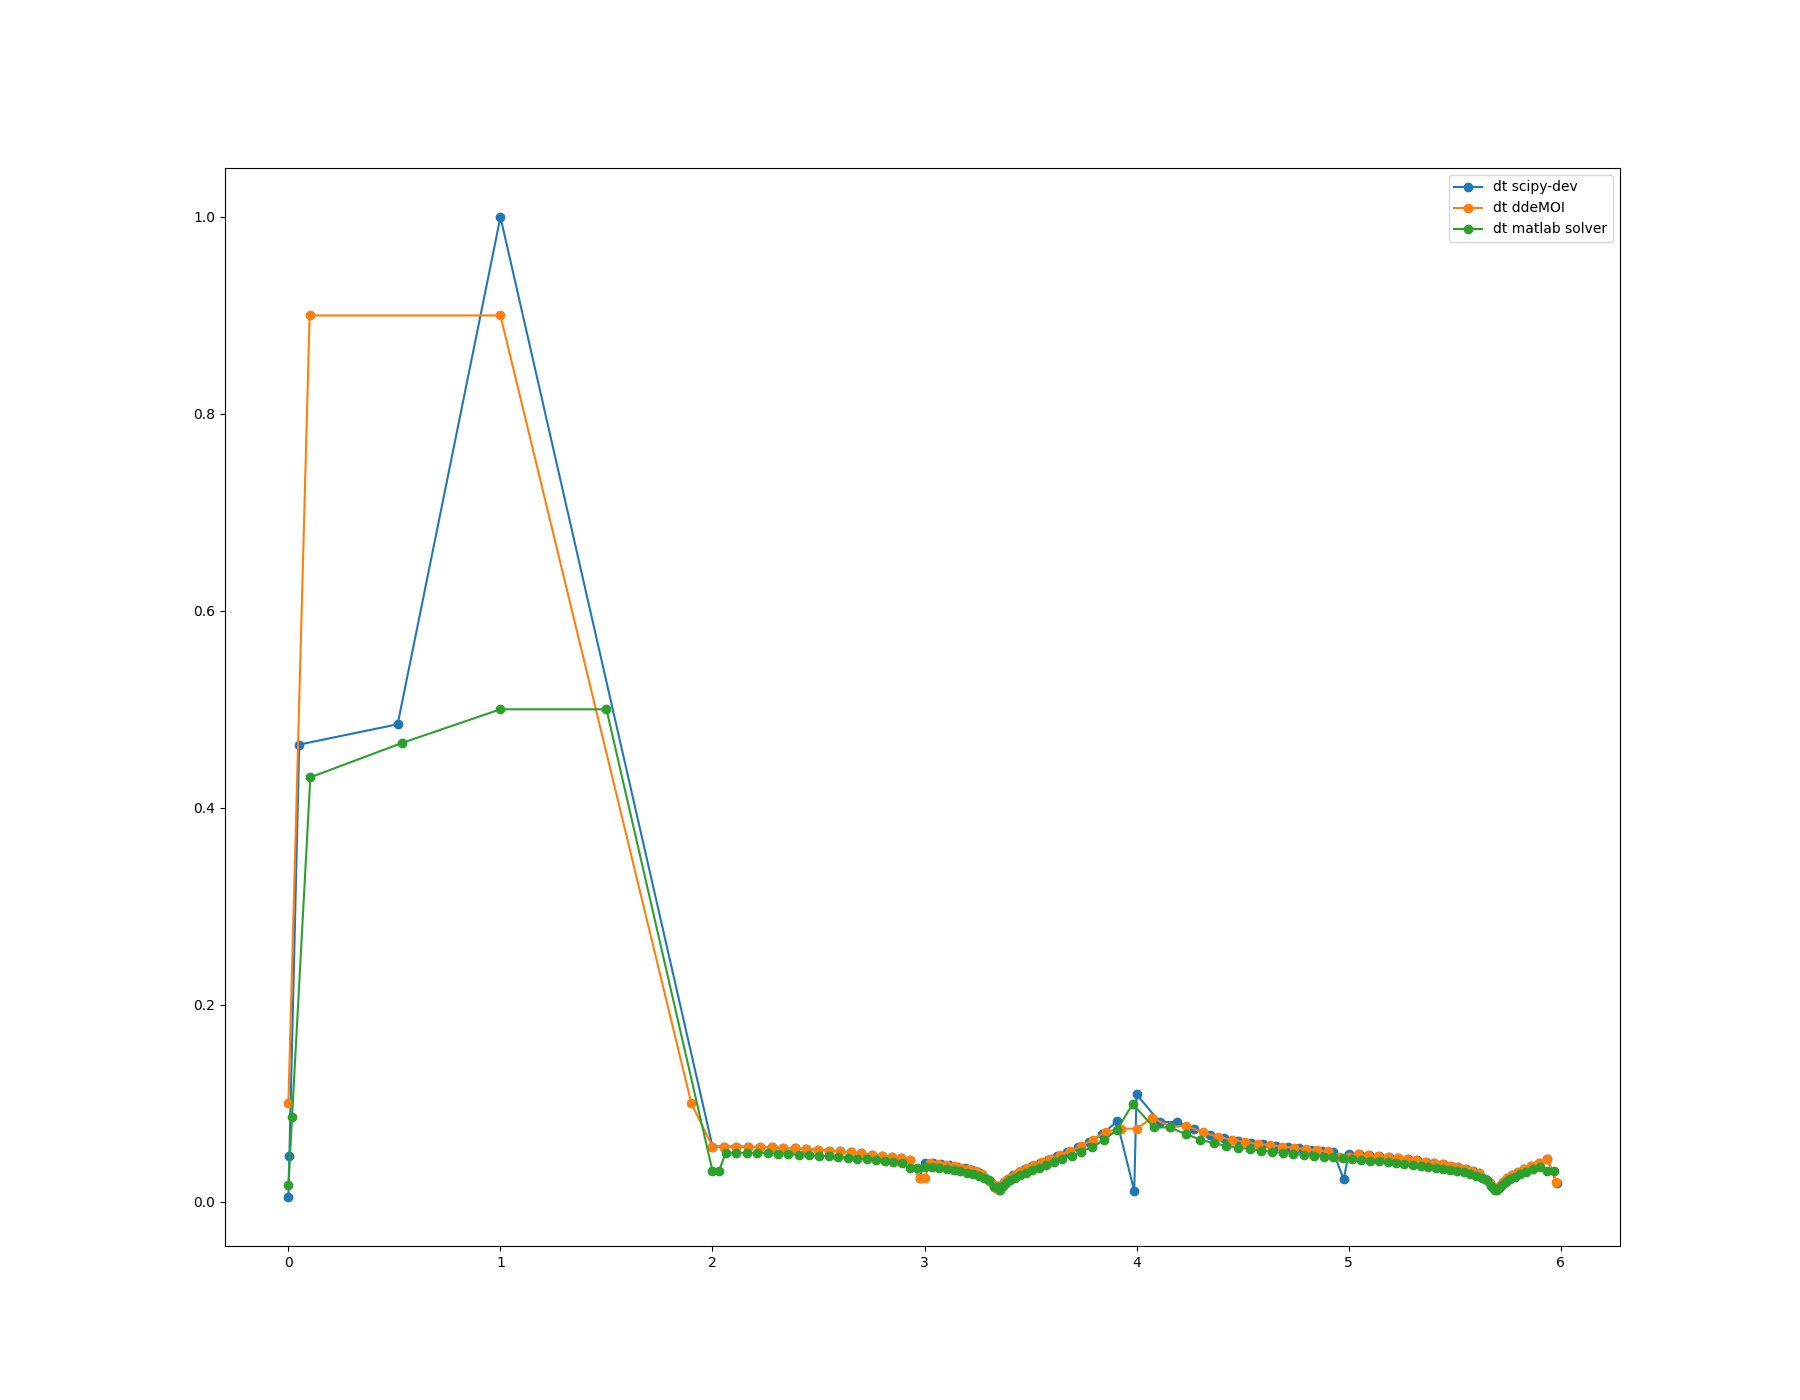
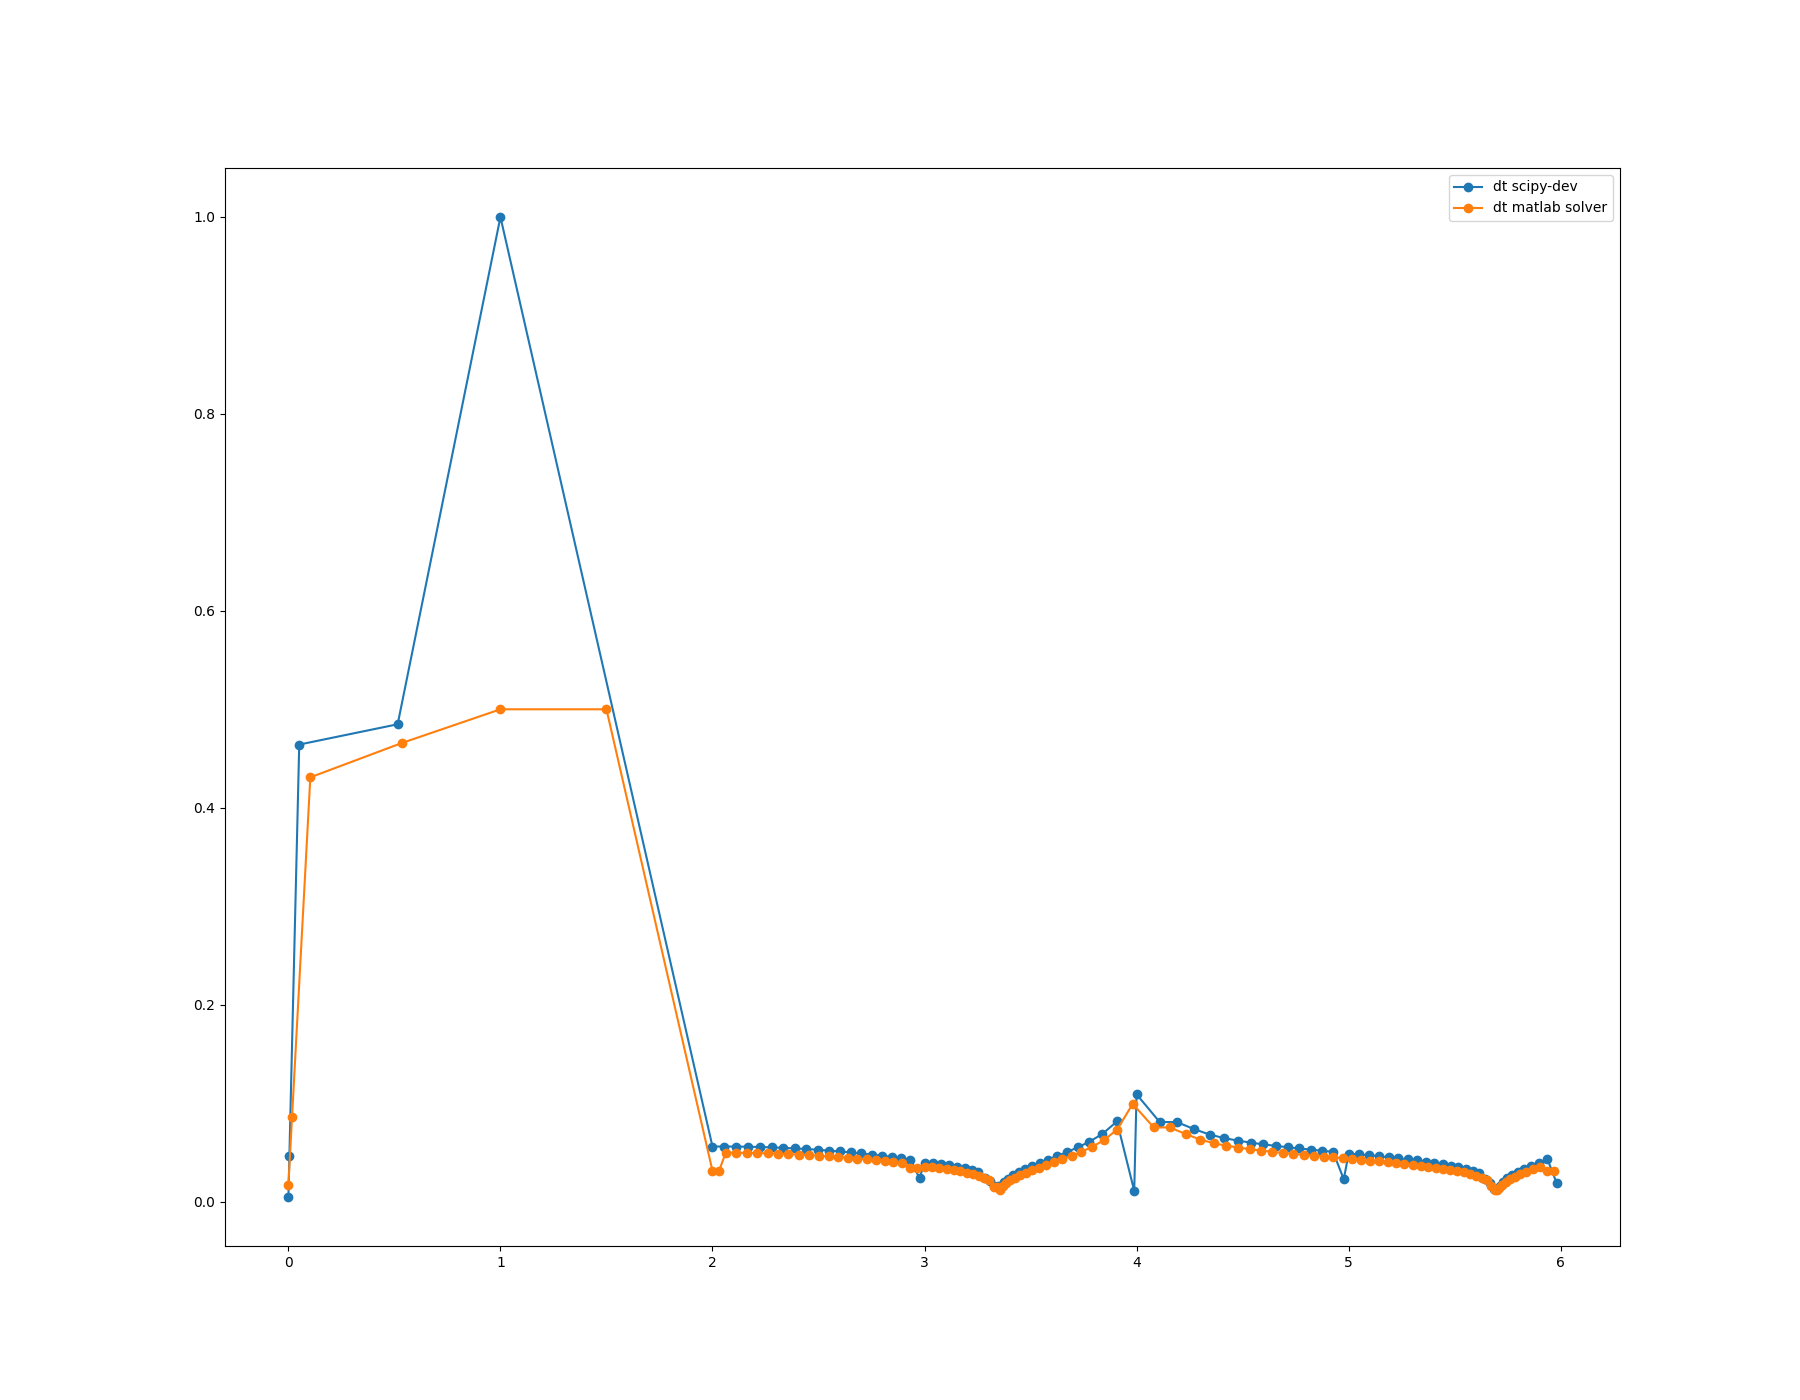
modification of README and presentation of graph

diff --git a/divergingDDE.py b/divergingDDE.py
@@ -107,7 +107,7 @@ tspan = [t0, tf]
 delays = [tau]
 
 def h(t):
-    return 1
+    return [1]
 
 t1 = time.time()
 sol23 = solve_dde(fun, tspan, delays, y0, h, method='RK23', atol=atol, rtol=rtol)
@@ -156,18 +156,18 @@ err_mat = np.abs(np.abs(y_mat - ana_mat) / ana_mat)
 
 
 
-plt.figure(figsize=(18,14))
+plt.figure()
 plt.plot(t, y, label='scipy-dev y(t)')
 plt.plot(t, yp, label="scipy-dev y'(t)")
 plt.plot(t_mat, y_mat, 'o', label='matlab y(t)')
 plt.plot(t_mat, yp_mat, 'o', label="matlab y'(t)")
 plt.legend()
-plt.savefig('testFigure/solDiv/y_yp')
+plt.savefig('testFigure/solDiv/y')
 
-plt.figure(figsize=(18,14))
+plt.figure()
 plt.plot(t, err_spdev, label='scipy-dev err23')
 plt.plot(t45, err_spdev45, label='scipy-dev err45')
-plt.plot(t_ddeMoi, err_ddeMoi, label='ddeMoi err')
+#plt.plot(t_ddeMoi, err_ddeMoi, label='ddeMoi err')
 plt.plot(t_mat, err_mat, label="matlab err")
 plt.legend()
 plt.savefig('testFigure/solDiv/error')
@@ -181,7 +181,7 @@ plt.title('phase graph')
 
 plt.figure(figsize=(18,14))
 plt.plot(t[:-1],np.diff(t),'-o',label='dt scipy-dev')
-plt.plot(t_ddeMoi[:-1],np.diff(t_ddeMoi),'-o',label='dt ddeMOI')
+#plt.plot(t_ddeMoi[:-1],np.diff(t_ddeMoi),'-o',label='dt ddeMOI')
 plt.plot(t_mat[:-1],np.diff(t_mat),'-o',label='dt matlab solver')
 plt.legend()
 plt.savefig('testFigure/solDiv/dt')

diff --git a/mackeyGlass.py b/mackeyGlass.py
@@ -70,35 +70,29 @@ err_mat_ju = np.abs(y_mat_ju - y_ju)/y_ju
 err_dev_ju = np.abs(y_dev_ju - y_ju)/y_ju
 
 
-plt.figure(figsize=(18,14))
+plt.figure()
 plt.plot(t, y, 'b',label='scipy-dev y(t)')
 plt.plot(t, yp, 'b--', label="scipy-dev y'(t)")
 plt.plot(t_mat, y_mat, 'r', label='matlab y(t)')
 plt.plot(t_mat, yp_mat, 'r--', label="matlab y'(t)")
 plt.plot(t_ju, y_ju, 'g',label='julia y(t)')
-
 plt.legend()
+plt.savefig('testFigure/mackeyGlass/y')
 
-plt.figure(figsize=(18,14))
+plt.figure()
 plt.plot(t_ju, err_mat_ju, label='err mat / ju')
 plt.plot(t_ju, err_dev_ju, 'o', label='err dev / ju')
 plt.legend()
 plt.xlabel('t')
 plt.ylabel(r'$\varepsilon$')
 plt.title('error relative')
+plt.savefig('testFigure/mackeyGlass/error.png')
 
-plt.figure(figsize=(18,14))
+plt.figure()
 plt.plot(t[:-1],np.diff(t),'-o',label='dt scipy-dev')
 plt.plot(t_ju[:-1],np.diff(t_ju),'-o',label='dt julia')
-
-plt.plot(t_ddeMoi[:-1],np.diff(t_ddeMoi),'-o',label='dt ddeMOI')
+#plt.plot(t_ddeMoi[:-1],np.diff(t_ddeMoi),'-o',label='dt ddeMOI')
 plt.plot(t_mat[:-1],np.diff(t_mat),'-o',label='dt matlab solver')
 plt.legend()
-
+plt.savefig('testFigure/mackeyGlass/dt.png')
 plt.show()
-
-
-
-
-
-

diff --git a/convergingDDE.py b/convergingDDE.py
@@ -153,11 +153,11 @@ plt.plot(t, yp, label="scipy-dev y'(t)")
 plt.plot(t_mat, y_mat, 'o', label='matlab y(t)')
 plt.plot(t_mat, yp_mat, 'o', label="matlab y'(t)")
 plt.legend()
-plt.savefig('testFigure/solConv/y_yp')
+plt.savefig('testFigure/solConv/y')
 
 plt.figure(figsize=(18,14))
 plt.plot(t, err_spdev, label='scipy-dev err')
-plt.plot(t_ddeMoi, err_ddeMoi, label='ddeMoi err')
+#plt.plot(t_ddeMoi, err_ddeMoi, label='ddeMoi err')
 plt.plot(t_mat, err_mat, label="matlab err")
 plt.legend()
 plt.savefig('testFigure/solConv/error')
@@ -171,7 +171,7 @@ plt.title('phase graph')
 
 plt.figure(figsize=(18,14))
 plt.plot(t[:-1],np.diff(t),'-o',label='dt scipy-dev')
-plt.plot(t_ddeMoi[:-1],np.diff(t_ddeMoi),'-o',label='dt ddeMOI')
+#plt.plot(t_ddeMoi[:-1],np.diff(t_ddeMoi),'-o',label='dt ddeMOI')
 plt.plot(t_mat[:-1],np.diff(t_mat),'-o',label='dt matlab solver')
 plt.legend()
 plt.savefig('testFigure/solConv/dt')

diff --git a/README.md b/README.md
@@ -4,9 +4,12 @@ SciPy
 
 A development of delay differential equations solver in SciPy from a fork of version '1.5.0.dev0+912c54c'.
 
-The solver is derived from solve_ivp function from scipy/integrate._ivp
+The solver is derived from solve_ivp function from scipy/integrate._ivp. 
+You will find the folder scipy/integrate/_dde where all the changes have been made. 
+The function in named ***solve_dde*** in *scipy/integrate/_dde/dde.py*
+
 It use the method of step with embedded Runge-Kutta RK23 or RK45 at this time.
-Evaluation of delays term is realized with continuous extension  of RK integration.
+Evaluation of delay terms is realized with continuous extension  of RK integration.
 
 ## Sources
 https://www.radford.edu/~thompson/webddes/index.html
@@ -43,6 +46,11 @@ plt.plot(t, y, label='scipy-dev y(t)')
 plt.legend()
 ```
 
+
+
+### diverging problem
+![](testFigure/solDiv/error.png)
+![](testFigure/solDiv/y.png)
 
 ### rocking suitcase model
 
@@ -95,7 +103,6 @@ y = sol23.y[0,:]
 yp = sol23.y[1,:]
 ```
 
-![](testFigure/suitecase/phase_diag.png)
 
 ```py
 plt.figure(figsize=(18,14))
@@ -106,7 +113,24 @@ plt.plot(y, yp, label='phase diagram')
 plt.legend()
 
 ```
+![](testFigure/suitecase/phase_diag.png)
 
 ### virus model
 
+```py
+
+```
+![](testFigure/virus/virus.png)
+
+
+### Mackey Glass
+
+```py
+
+```
+
+
+![](testFigure/mackeyGlass/y.png)
+![](testFigure/mackeyGlass/error.png)
+![](testFigure/mackeyGlass/dt.png)
 
